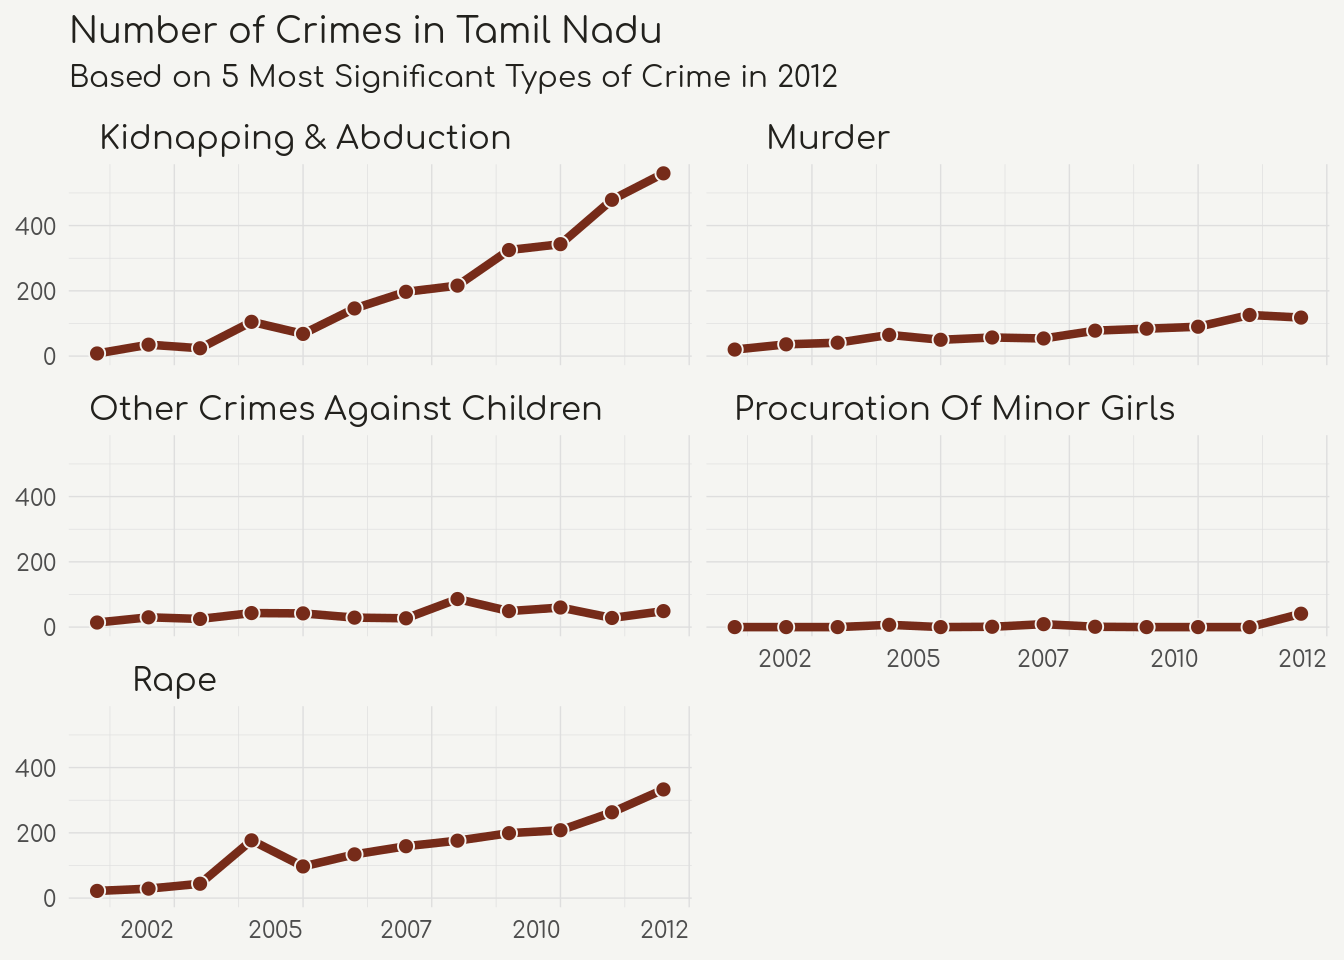
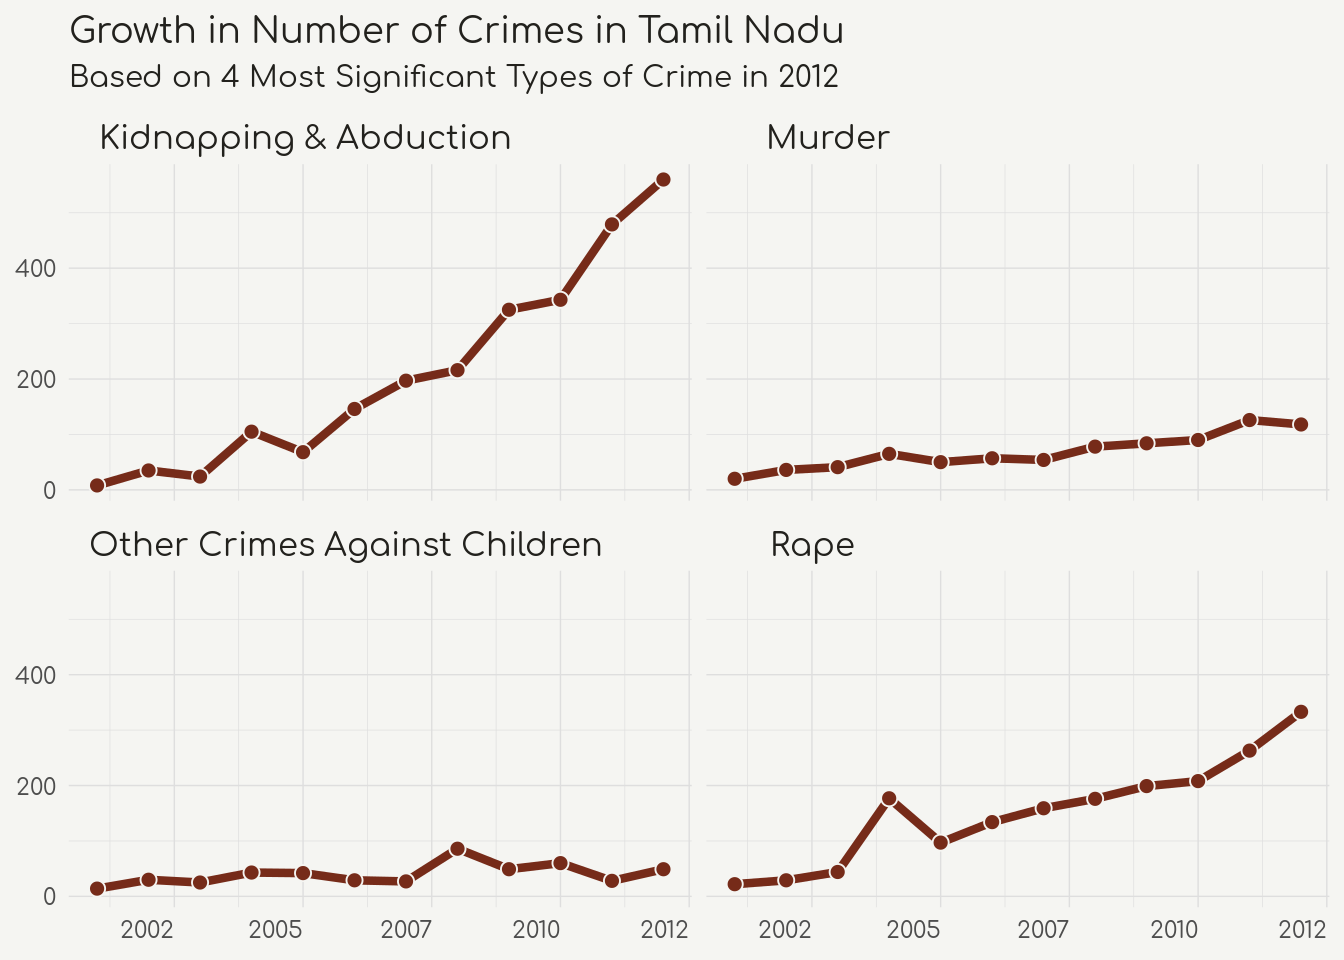
edit chart titles

diff --git a/content/blog/2018-02-22-crime-against-children-in-india.html b/content/blog/2018-02-22-crime-against-children-in-india.html
@@ -167,7 +167,7 @@ df$state_ut &lt;- str_to_title(df$state_ut)</code></pre>
 crimes &lt;- c(&quot;Kidnapping And Abduction Of Children&quot;,
             &quot;Murder Of Children&quot;,
             &quot;Other Crimes Against Children&quot;,
-            &quot;Procuration Of Minor Girls&quot;,
+#            &quot;Procuration Of Minor Girls&quot;,
             &quot;Rape Of Children&quot;)
 
 df %&gt;%
@@ -179,8 +179,8 @@ df %&gt;%
   geom_point(shape = 21, size = 2.5, col = my_bkgd, fill = ghibli_palettes$MononokeMedium[2]) +
   facet_wrap(~ crime_head, ncol = 2) +
   labs(y = NULL, x = NULL,
-       title = &quot;Number of Crimes in Tamil Nadu&quot;,
-       subtitle = &quot;Based on 5 Most Significant Types of Crime in 2012&quot;) +
+       title = &quot;Growth in Number of Crimes in Tamil Nadu&quot;,
+       subtitle = &quot;Based on 4 Most Significant Types of Crime in 2012&quot;) +
   scale_x_continuous(labels = function(x) as.integer(x)) +
   theme(axis.text.x = element_text(hjust=1))</code></pre>
 <p><img src="/blog/2018-02-22-crime-against-children-in-india_files/figure-html/tamil_nadu_crimes_charts-1.png" width="672" /></p>
@@ -190,14 +190,13 @@ df %&gt;%
   group_by(crime_head) %&gt;%
   summarize(CAGR =  scales::percent((df[year == 2012] / df[year == 2001]) ^ (1/11) - 1)) %&gt;%
   arrange(desc(CAGR)) </code></pre>
-<pre><code>## # A tibble: 5 x 2
+<pre><code>## # A tibble: 4 x 2
 ##   crime_head                           CAGR 
 ##   &lt;chr&gt;                                &lt;chr&gt;
-## 1 Procuration Of Minor Girls           Inf  
-## 2 Kidnapping And Abduction Of Children 47.1%
-## 3 Rape Of Children                     28.0%
-## 4 Murder Of Children                   17.5%
-## 5 Other Crimes Against Children        12.1%</code></pre>
+## 1 Kidnapping And Abduction Of Children 47.1%
+## 2 Rape Of Children                     28.0%
+## 3 Murder Of Children                   17.5%
+## 4 Other Crimes Against Children        12.1%</code></pre>
 <p>Note that ‘Procuration Of Minor Girls’ is <strong>NaN%</strong> since it was 0 in 2001. Kidnappings have grown by almost 50% a year!</p>
 </div>
 <div id="kidnappings-and-abductions-by-state" class="section level4">
@@ -215,7 +214,7 @@ kidnapping_plot &lt;- df %&gt;%
   filter(crime_head == &quot;Kidnapping And Abduction Of Children&quot;, state_ut %in% high_ka_states$state_ut) %&gt;%
   ggplot(aes(x=year,y=df, fill=state_ut, text = paste0(&quot;Year: &quot;, year,&quot;\nTotal: &quot;, df))) +
   geom_bar(stat=&#39;identity&#39;) + 
-    labs(title = &#39;Kidnapping And Abduction Of Children by State, 2001 - 2012&#39;, y = &#39;Number of Crimes&#39;, x=&#39;&#39;) +
+    labs(title = &#39;Kidnapping And Abduction by State, 2001 - 2012&#39;, y = &#39;Number of Crimes&#39;, x=&#39;&#39;) +
     scale_x_continuous(labels = function(x) as.integer(x)) +
     facet_wrap(~state_ut) + 
     scale_fill_manual(values = colorRampPalette(brewer.pal(8, &quot;Dark2&quot;))(top_k)) +
